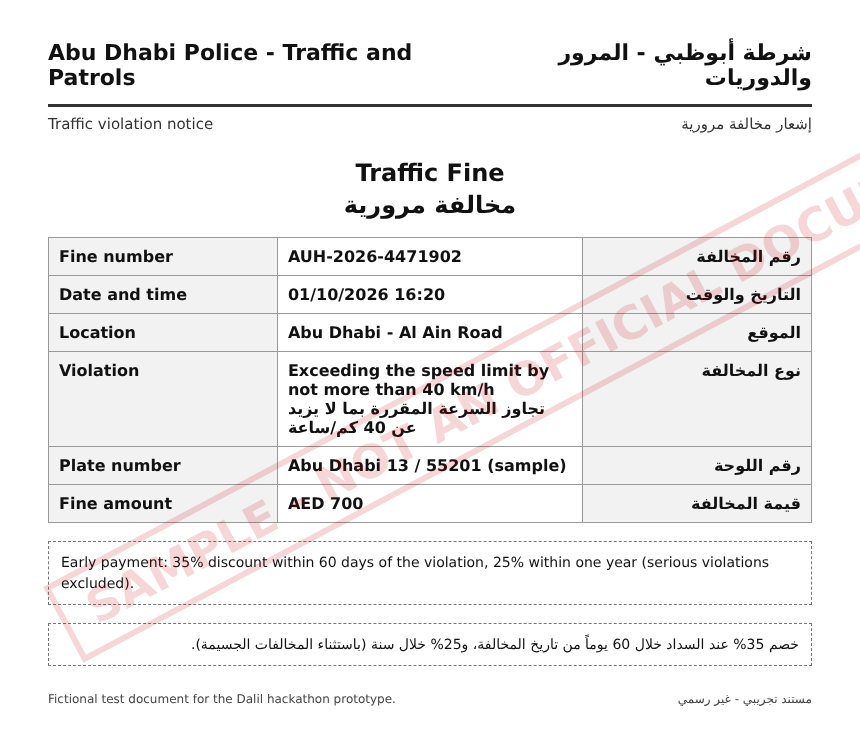
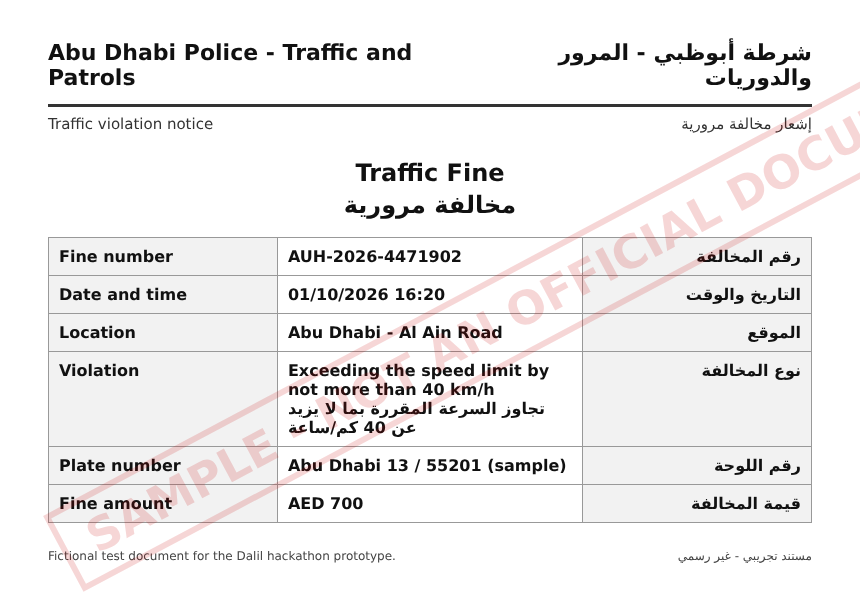
Remove the Abu Dhabi (TAMM) traffic fine record and every discount claim
The record's details, including the reported early-payment discount, couldn't be
confirmed on the official TAMM website, so it's removed completely. Abu Dhabi fines
are now handled like Sharjah: the document is explained, with no fee rules and no
Dubai fallback.

- data/services.json: record removed (4 records now)
- data/sources.md: Abu Dhabi rows removed; no discount claims left
- Mock Abu Dhabi speeding sample (+ blurry photo) regenerated without the discount line
- samples/expected.csv: Abu Dhabi fines now expect no catalog match
- tests: Abu Dhabi fine must match nothing (and never the Dubai record)

Claude-Session: https://claude.ai/code/session_01RhWAiTNJy59z9h2suWkiYQ

diff --git a/tools/make_samples.py b/tools/make_samples.py
@@ -148,8 +148,7 @@ DOCS = {
             ("Violation", "Exceeding the speed limit by not more than 40 km/h<br>تجاوز السرعة المقررة بما لا يزيد عن 40 كم/ساعة", "نوع المخالفة"),
             ("Plate number", "Abu Dhabi 13 / 55201 (sample)", "رقم اللوحة"),
             ("Fine amount", "AED 700", "قيمة المخالفة"),
-        ], "Early payment: 35% discount within 60 days of the violation, 25% within one year (serious violations excluded).",
-        "خصم 35% عند السداد خلال 60 يوماً من تاريخ المخالفة، و25% خلال سنة (باستثناء المخالفات الجسيمة)."),
+        ]),
 
     "fine_abudhabi_arabic_only": doc_ar_only(
         "شرطة أبوظبي - المرور والدوريات", "إشعار مخالفة مرورية", "مخالفة مرورية", [

diff --git a/tests/test_pipeline.py b/tests/test_pipeline.py
@@ -26,9 +26,10 @@ def test_dubai_speeding_fine_matches_dubai_record():
 
 
 def test_abu_dhabi_fine_does_not_get_dubai_link():
-    s = catalog.match(fields(emirate="Abu Dhabi", issuing_authority="Abu Dhabi Police",
-                             keywords=["abu", "dhabi", "police", "speed"]))
-    assert s["id"] == "abu-dhabi-traffic-fine"
+    # No Abu Dhabi fine record (its details couldn't be confirmed on an official page),
+    # so Dalil must not fall back to the Dubai one.
+    assert catalog.match(fields(emirate="Abu Dhabi", issuing_authority="Abu Dhabi Police",
+                                keywords=["abu", "dhabi", "police", "speed"])) is None
 
 
 def test_sharjah_fine_with_no_record_returns_none():

diff --git a/data/sources.md b/data/sources.md
@@ -10,14 +10,13 @@ Each record was re-checked on the authority's **own official page**. `verified =
 | Record id | What was confirmed | Official source | Result |
 |---|---|---|---|
 | dubai-traffic-fine | Fee = fine amount + **AED 20 Knowledge and Innovation fees per fine**; payment channels and steps; **no early-payment discount and no payment deadline listed** | [RTA: Pay Vehicle Fines](https://www.rta.ae/wps/portal/rta/ae/home/rta-services/service-details?serviceId=521) | ✅ verified. The Dubai Police service card (noted below) states the same AED 20 but blocks automated reading. |
-| abu-dhabi-traffic-fine | Payment channel and steps only. **The early-payment discount (35% / 25%) was removed** on 2026-10-30: it came from media reports only and could not be confirmed on an official page. | [TAMM: Pay traffic fines](https://www.tamm.abudhabi/en/life-events/individual/Make-a-payment/Fines/paytrafficfines) | ⚠ not verified. The TAMM page only loads in a browser. Dalil shows a warning and tells the user to check the amount in the app. |
 | dubai-residency-notice | Private-sector renewal: AED 200 renewal + AED 10 Knowledge + AED 10 Innovation + AED 20 delivery + AED 500 "fee inside the country"; +AED 100/year beyond two years; **60-day grace period** | [GDRFA Dubai: Renewing a residence permit for the private sector](https://www.gdrfad.gov.ae/en/services/95222a40-56f2-11ea-0320-0050569629e8) | ✅ verified (private-sector category only) |
 | dubai-residency-notice, federal-residency-notice | **Overstay fine AED 50 per day**, from the day after the grace period | [ICP: Payment of visa or residence violation fine](https://icp.gov.ae/en/services-details/?serviceid=68e73faf5ae59b00117389f1); [u.ae: residence visa provisions](https://u.ae/en/information-and-services/visa-and-emirates-id/Visa-information/general-provisions-for-the-residence-visa) ("standardised at AED 50 per day") | ✅ verified. **Conflict resolved:** the AED 100/day on the old GDRFA FAQ is outdated. |
 | federal-residency-notice | AED 100 application + AED 100 per year + AED 100 smart service fee; grace periods 180 / 90 / 60 / 30 days by category | [ICP: Renewal of residency permits](https://icp.gov.ae/en/services-details/?serviceid=64afe3c1035448005bd52e66) | ✅ verified |
 | dubai-tenancy-contract | **AED 177.75** online (100 + 10 + 10 + 55 partner + 2.75 VAT); **AED 220** at a Trustee Centre; channels: DLD website, Dubai REST, Dubai Now, Trustee Centres; **no registration deadline stated** | [DLD: Register / Renew Tenancy Contract](https://dubailand.gov.ae/en/eservices/register-renew-ejari-contract/) | ✅ verified. **Conflict resolved:** "flat AED 220" applies only at Trustee Centres. |
 
 Still open:
-- **Abu Dhabi early-payment discount.** Removed from the catalog (media reports only). Dalil makes no discount claim for any emirate. Don't mention discounts in the pitch.
+- **Abu Dhabi traffic fines: removed from the catalog** (30 Oct 2026). The details, including a reported early-payment discount, came from media reports and couldn't be confirmed on the official TAMM page. Abu Dhabi fines are now handled like Sharjah: Dalil explains the document but shows no fee rules. Dalil makes no discount claim for any emirate, so don't mention discounts in the pitch.
 - **Dubai early-payment discount.** The official RTA page lists none, and no official Dubai Police announcement was found. Dalil therefore says there is no listed discount and tells the user to check the amount in the app. Don't claim a Dubai discount in the pitch.
 - **Speeding fine amounts** (Gulf News scale). These are media figures, so `fine_aed` stays `null`. The amount printed on the fine is what the user pays anyway.
 
@@ -55,15 +54,10 @@ Original research with all sources considered. The verification pass above decid
 | dubai-traffic-fine | next_steps | Dubai Police, services page (Fines Inquiry and Payment) | https://www.dubaipolice.gov.ae/app/services/ | 2026-10-27 | Official. Lists traffic fines payment by plate, licence or traffic code, plus Instalments, Pay Against Impound and Violation Evidence Images. Supports the 3 next_steps (app or website, search by plate or traffic file number, pay online). |
 | dubai-traffic-fine | fee_aed, fee_note | Dubai Police, service card: Fines Inquiry and Payment | https://youfirst.dubaipolice.gov.ae/wps/portal/home/services/individualservicescontent/finesinquiryDetails | 2026-10-27 | Official. Fee = the amount of the fine + AED 20 knowledge and innovation fees. Keep fee_aed = null (varies per fine). Suggested fee_note: "The amount printed on the fine, plus AED 20 knowledge and innovation fees." Also states cards issued outside the UAE/GCC are not accepted online, and a valid email and mobile number are needed. |
 | dubai-traffic-fine | fee_note (list of violations) | Dubai Police, home page FAQ | https://www.dubaipolice.gov.ae/wps/portal/home | 2026-10-27 | Official. Printed list of violations is free online and AED 5 per vehicle at a service location. Optional detail. |
-| dubai-traffic-fine | deadline_rule (early-payment discount) | UAE Times, "UAE Traffic Fine Discount 2026" | https://theuaetimes.ae/uae-traffic-fine-discount/ | 2026-10-27 | Third-party. Found NO official standing Dubai early-payment discount (35% / 25% is confirmed for Abu Dhabi and Sharjah only). Recommended: leave deadline_rule = null or state "No standing discount confirmed; check the amount in the Dubai Police app". Do not claim 35% for Dubai. |
+| dubai-traffic-fine | deadline_rule (early-payment discount) | UAE Times, "UAE Traffic Fine Discount 2026" | https://theuaetimes.ae/uae-traffic-fine-discount/ | 2026-10-27 | Third-party. Found NO official standing Dubai early-payment discount. Recommended: leave deadline_rule = null or state "No standing discount confirmed; check the amount in the Dubai Police app". Do not claim 35% for Dubai. |
 | dubai-traffic-fine | deadline_rule (conflict note) | UAE Expert Hub, "Dubai Traffic & Police Fines: How to Check and Pay in 2026" | https://www.uaeexperthub.com/dubai-traffic-fines-check-pay-online/ | 2026-10-27 | Third-party. Says an up-to-35% discount within 60 days is only periodically activated and not guaranteed. Other sites claim 50% or a permanent 35%. Conflicting, so unverified. |
 | dubai-traffic-fine | items.speeding: fine_aed, black_points | Gulf News, "Dubai Police AI traffic fines: Eight offences detected by radars" (updated 2026-07-30) | https://gulfnews.com/living-in-uae/transport/uae-eight-traffic-offences-detected-by-dubai-polices-advanced-ai-radar-system-1.500056465 | 2026-10-27 | Media report of Dubai Police figures. Fine scale: up to 20 km/h over = AED 300; up to 30 = 600; up to 40 = 700; up to 50 = 1,000; over 60 = 2,000 + 12 points + 30-day impound; over 80 = 3,000 + 23 points + 60-day impound. Black points for the lower bands are not given consistently, so keep black_points = null (a range) unless an official table is found. |
 | dubai-traffic-fine | items.parking: fine_aed, black_points | No source found | n/a | 2026-10-27 | Parking fines are issued by RTA and vary by zone. No verified single figure was found, so keep null. Parking carries no black points. |
-| abu-dhabi-traffic-fine | official_url | Abu Dhabi Police | https://www.adpolice.gov.ae | 2026-10-27 | Domain confirmed by several guides (Askexplorer, Pit Stop Arabia, Policybazaar). Not opened directly, so treat as secondary-source verified. |
-| abu-dhabi-traffic-fine | next_steps | Policybazaar UAE, "Abu Dhabi Traffic Fines 2026" | https://www.policybazaar.ae/car-insurance/articles/traffic-fines-in-abu-dhabi/ | 2026-10-27 | Third-party. Inquiry by plate, licence number or Emirates ID on adpolice.gov.ae; payment via the Abu Dhabi Police app or TAMM (UAE PASS login) or MOI. |
-| abu-dhabi-traffic-fine | fee_aed, fee_note | Abu Dhabi Police via Gulf News, "90% traffic fine discount in UAE? It could be a fake account" | https://gulfnews.com/uae/90-traffic-fine-discount-in-uae-it-could-be-a-fake-account-1.500145072 | 2026-10-27 | Media report of an official statement. No extra service fee was found, so fee = the amount on the fine. Keep fee_aed = null. |
-| abu-dhabi-traffic-fine | deadline_rule | Abu Dhabi Police via Gulf News (same article as above) | https://gulfnews.com/uae/90-traffic-fine-discount-in-uae-it-could-be-a-fake-account-1.500145072 | 2026-10-27 | Rule ("Act Early & Benefit"): 35% off if paid within 60 days of the offence, 25% off if paid between 60 days and one year from issue. Excludes serious violations. |
-| abu-dhabi-traffic-fine | deadline_rule (corroboration) | Khaleej Times, "73 screens in Abu Dhabi urge motorists to pay traffic fines early, get 35% discount" | https://www.khaleejtimes.com/uae/abu-dhabi-police-offers-drivers-discounts-on-fines | 2026-10-27 | Media report. Confirms 35% within 60 days and 25% within one year, excluding dangerous violations. |
 | dubai-residency-notice | official_url | GDRFA Dubai | https://gdrfad.gov.ae | 2026-10-27 | Official domain. Search results show GDRFA pages at www.gdrfad.gov.ae (e.g. /en/faq). |
 | dubai-residency-notice | items.overstay: fine_aed; deadline_rule | Sarmat, "Residence Visa Renewal Dubai 2026" | https://sarmat.ae/resources/residence-visa-renewal-dubai-2026 | 2026-10-27 | Third-party. States the ICP applies a unified overstay fine of AED 50 per day across all emirates since 2026-02-11, starting after the grace period. Needs official confirmation. |
 | dubai-residency-notice | items.overstay: fine_aed (corroboration) | HenryClub, "GDRFA Fine Check: UAE Overstay Fines" | https://www.henryclub.ae/visa-immigration/gdrfa-fine-check/ | 2026-10-27 | Third-party. Also reports a flat AED 50 per day for all visa types. Warns that older AED 25 and AED 100 figures are outdated. |
@@ -84,7 +78,7 @@ Original research with all sources considered. The verification pass above decid
 Only the **Dubai Police** fee rule (AED 20 knowledge and innovation fees) and links come from an official authority page. Everything else is from media reports or third-party guides, and is marked as such in the Notes column. Each of those should be re-checked on the authority's own page before the record is set to `verified = true`.
 
 Open conflicts to resolve:
-- **Dubai early-payment discount:** claimed by many sites, not confirmed by Dubai Police (confirmed for Abu Dhabi).
+- **Early-payment discounts:** claimed by many sites, not confirmed on any official page Dalil uses. Dalil makes no discount claims.
 - **Overstay fine:** AED 50 per day (2026, reported) vs the older AED 100 per day on the GDRFA FAQ.
 - **Ejari fee:** AED 177.75 online / AED 220 trustee centre vs a flat AED 220.
 

diff --git a/samples/README.md b/samples/README.md
@@ -8,7 +8,7 @@ in this folder. Real documents for private testing go in `samples/private/`, whi
 
 | Type | Documents | What they test |
 |---|---|---|
-| Traffic fines | Dubai speeding, red light with deadline, RTA parking, overdue reminder; Abu Dhabi speeding (discount printed), Abu Dhabi Arabic-only; Sharjah seatbelt | Different emirates and authorities, amounts written as "1,000", a deadline that has already passed, a discount that is not a deadline, Arabic-only text, an emirate with no catalog record |
+| Traffic fines | Dubai speeding, red light with deadline, RTA parking, overdue reminder; Abu Dhabi speeding, Abu Dhabi Arabic-only; Sharjah seatbelt | Different emirates and authorities, amounts written as "1,000", a deadline that has already passed, Arabic-only text, emirates with no catalog record (Abu Dhabi, Sharjah) |
 | Residency and visa | GDRFA Dubai expiry, ICP overstay in Sharjah, ICP cancellation in Ajman | Expiry date and grace period end as deadlines, overstay totals, federal versus Dubai matching |
 | Tenancy | Ejari certificate, Dubai unified tenancy contract (also as a **PDF**), Abu Dhabi Tawtheeq | Rent that is not an amount due, the PDF path, an emirate with no catalog record |
 | Phone photos | `__photo.jpg` versions: tilted, shadowed, noisy | Real-world photo quality |
